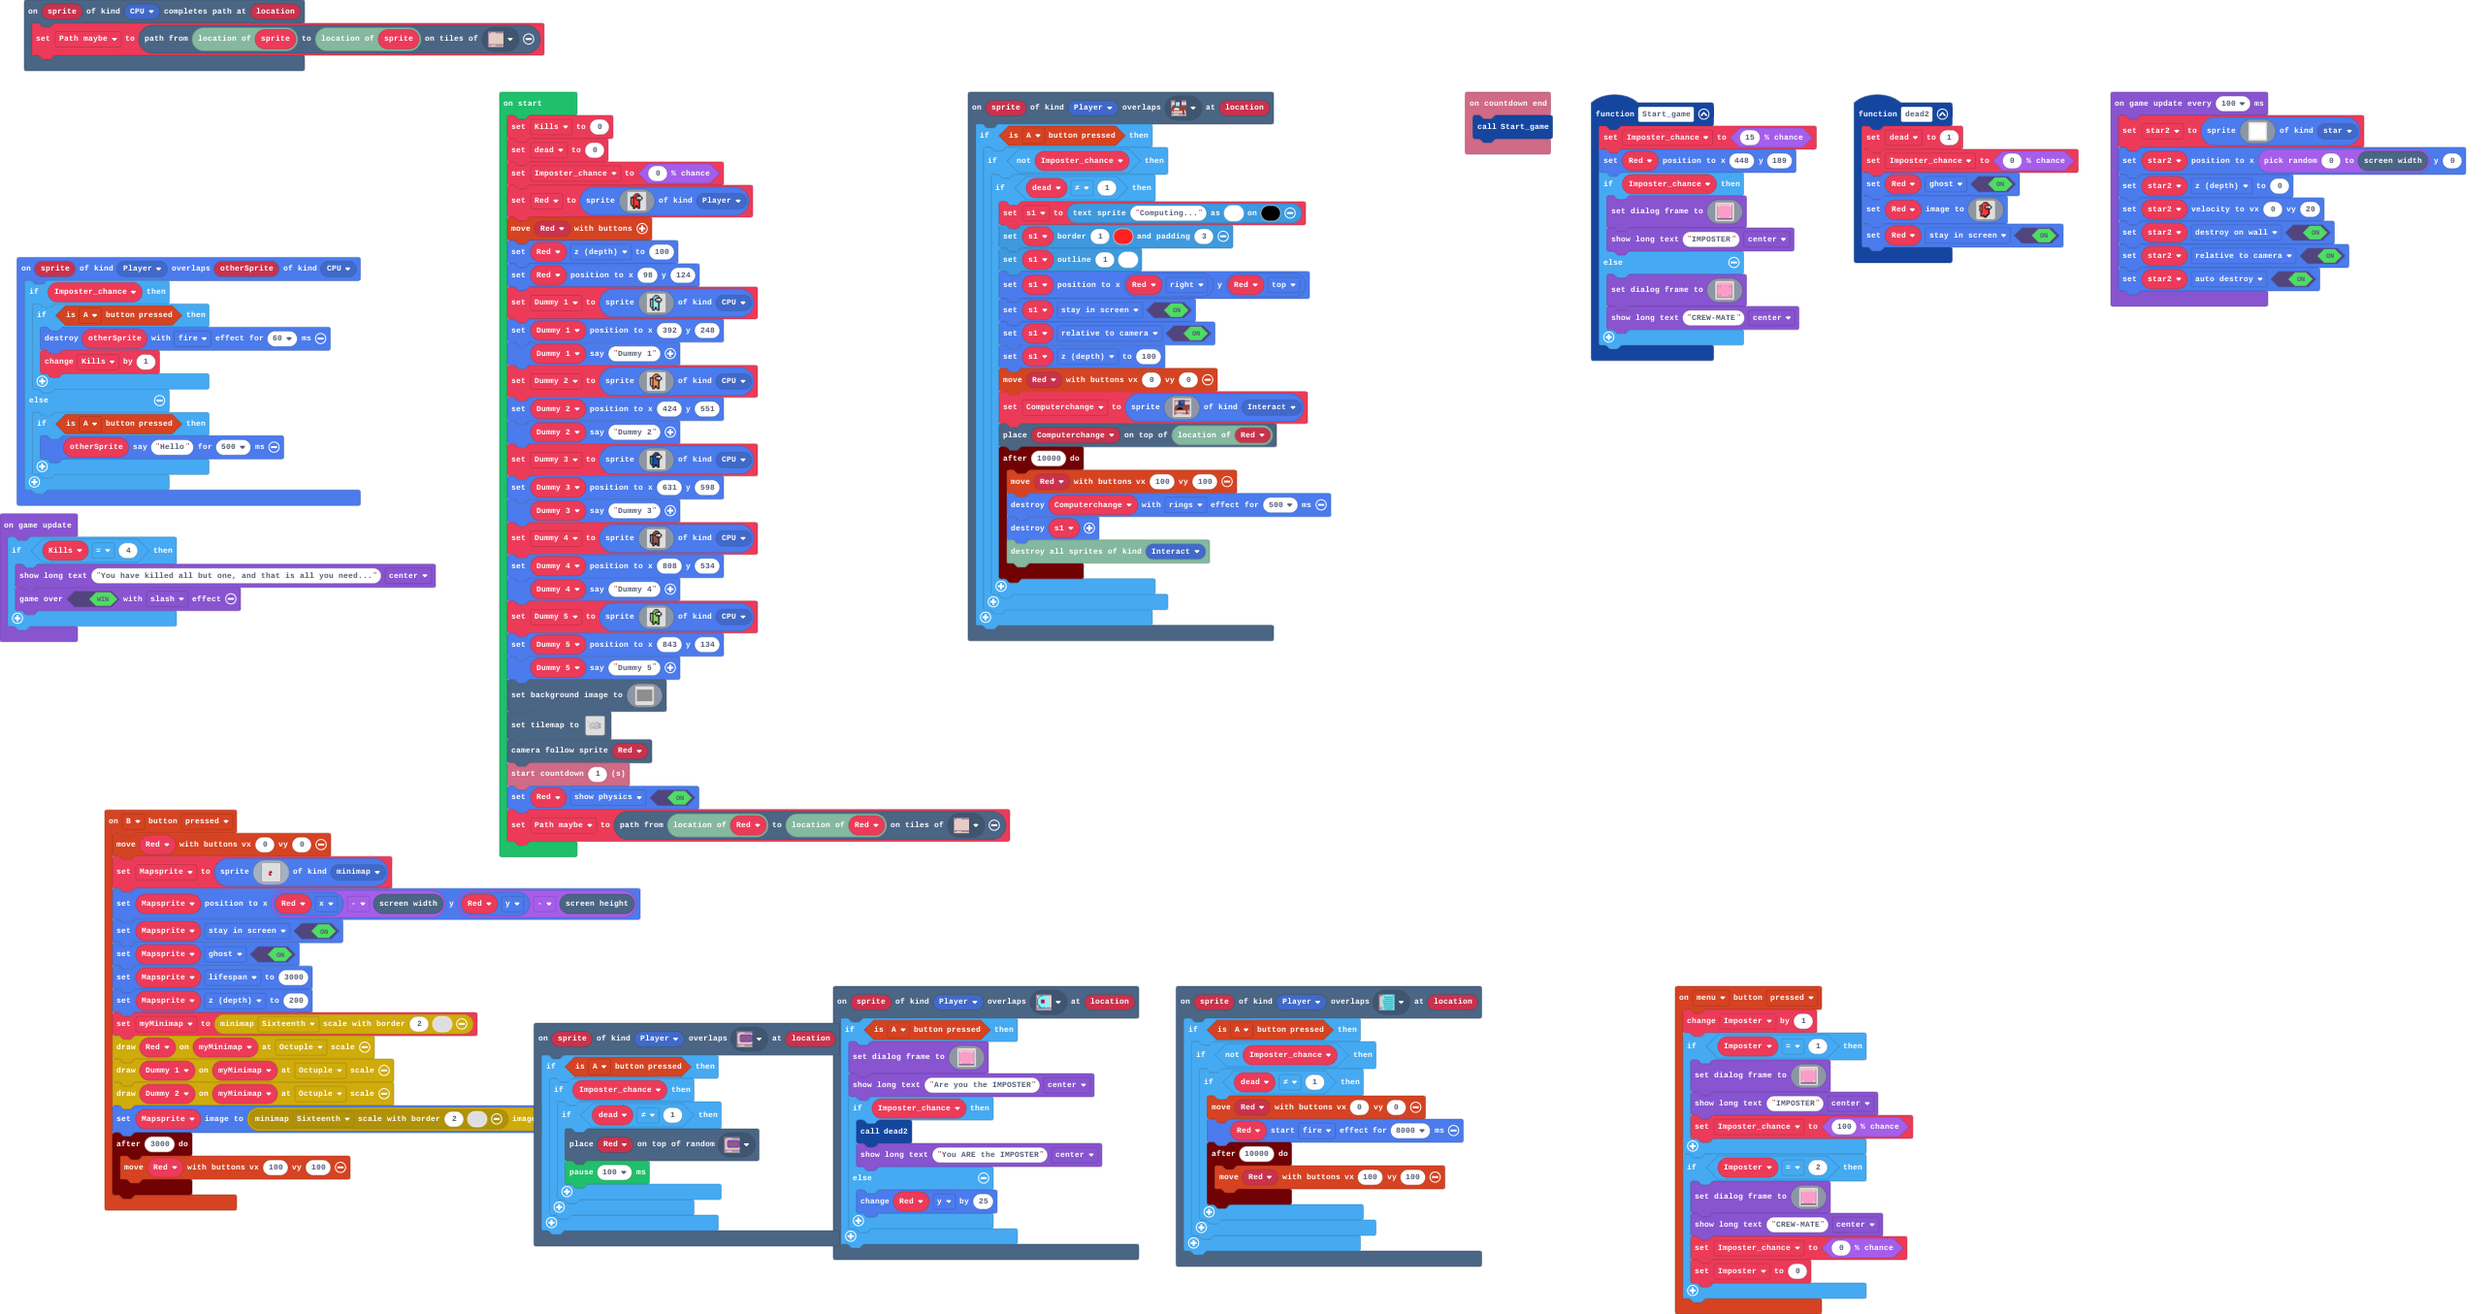
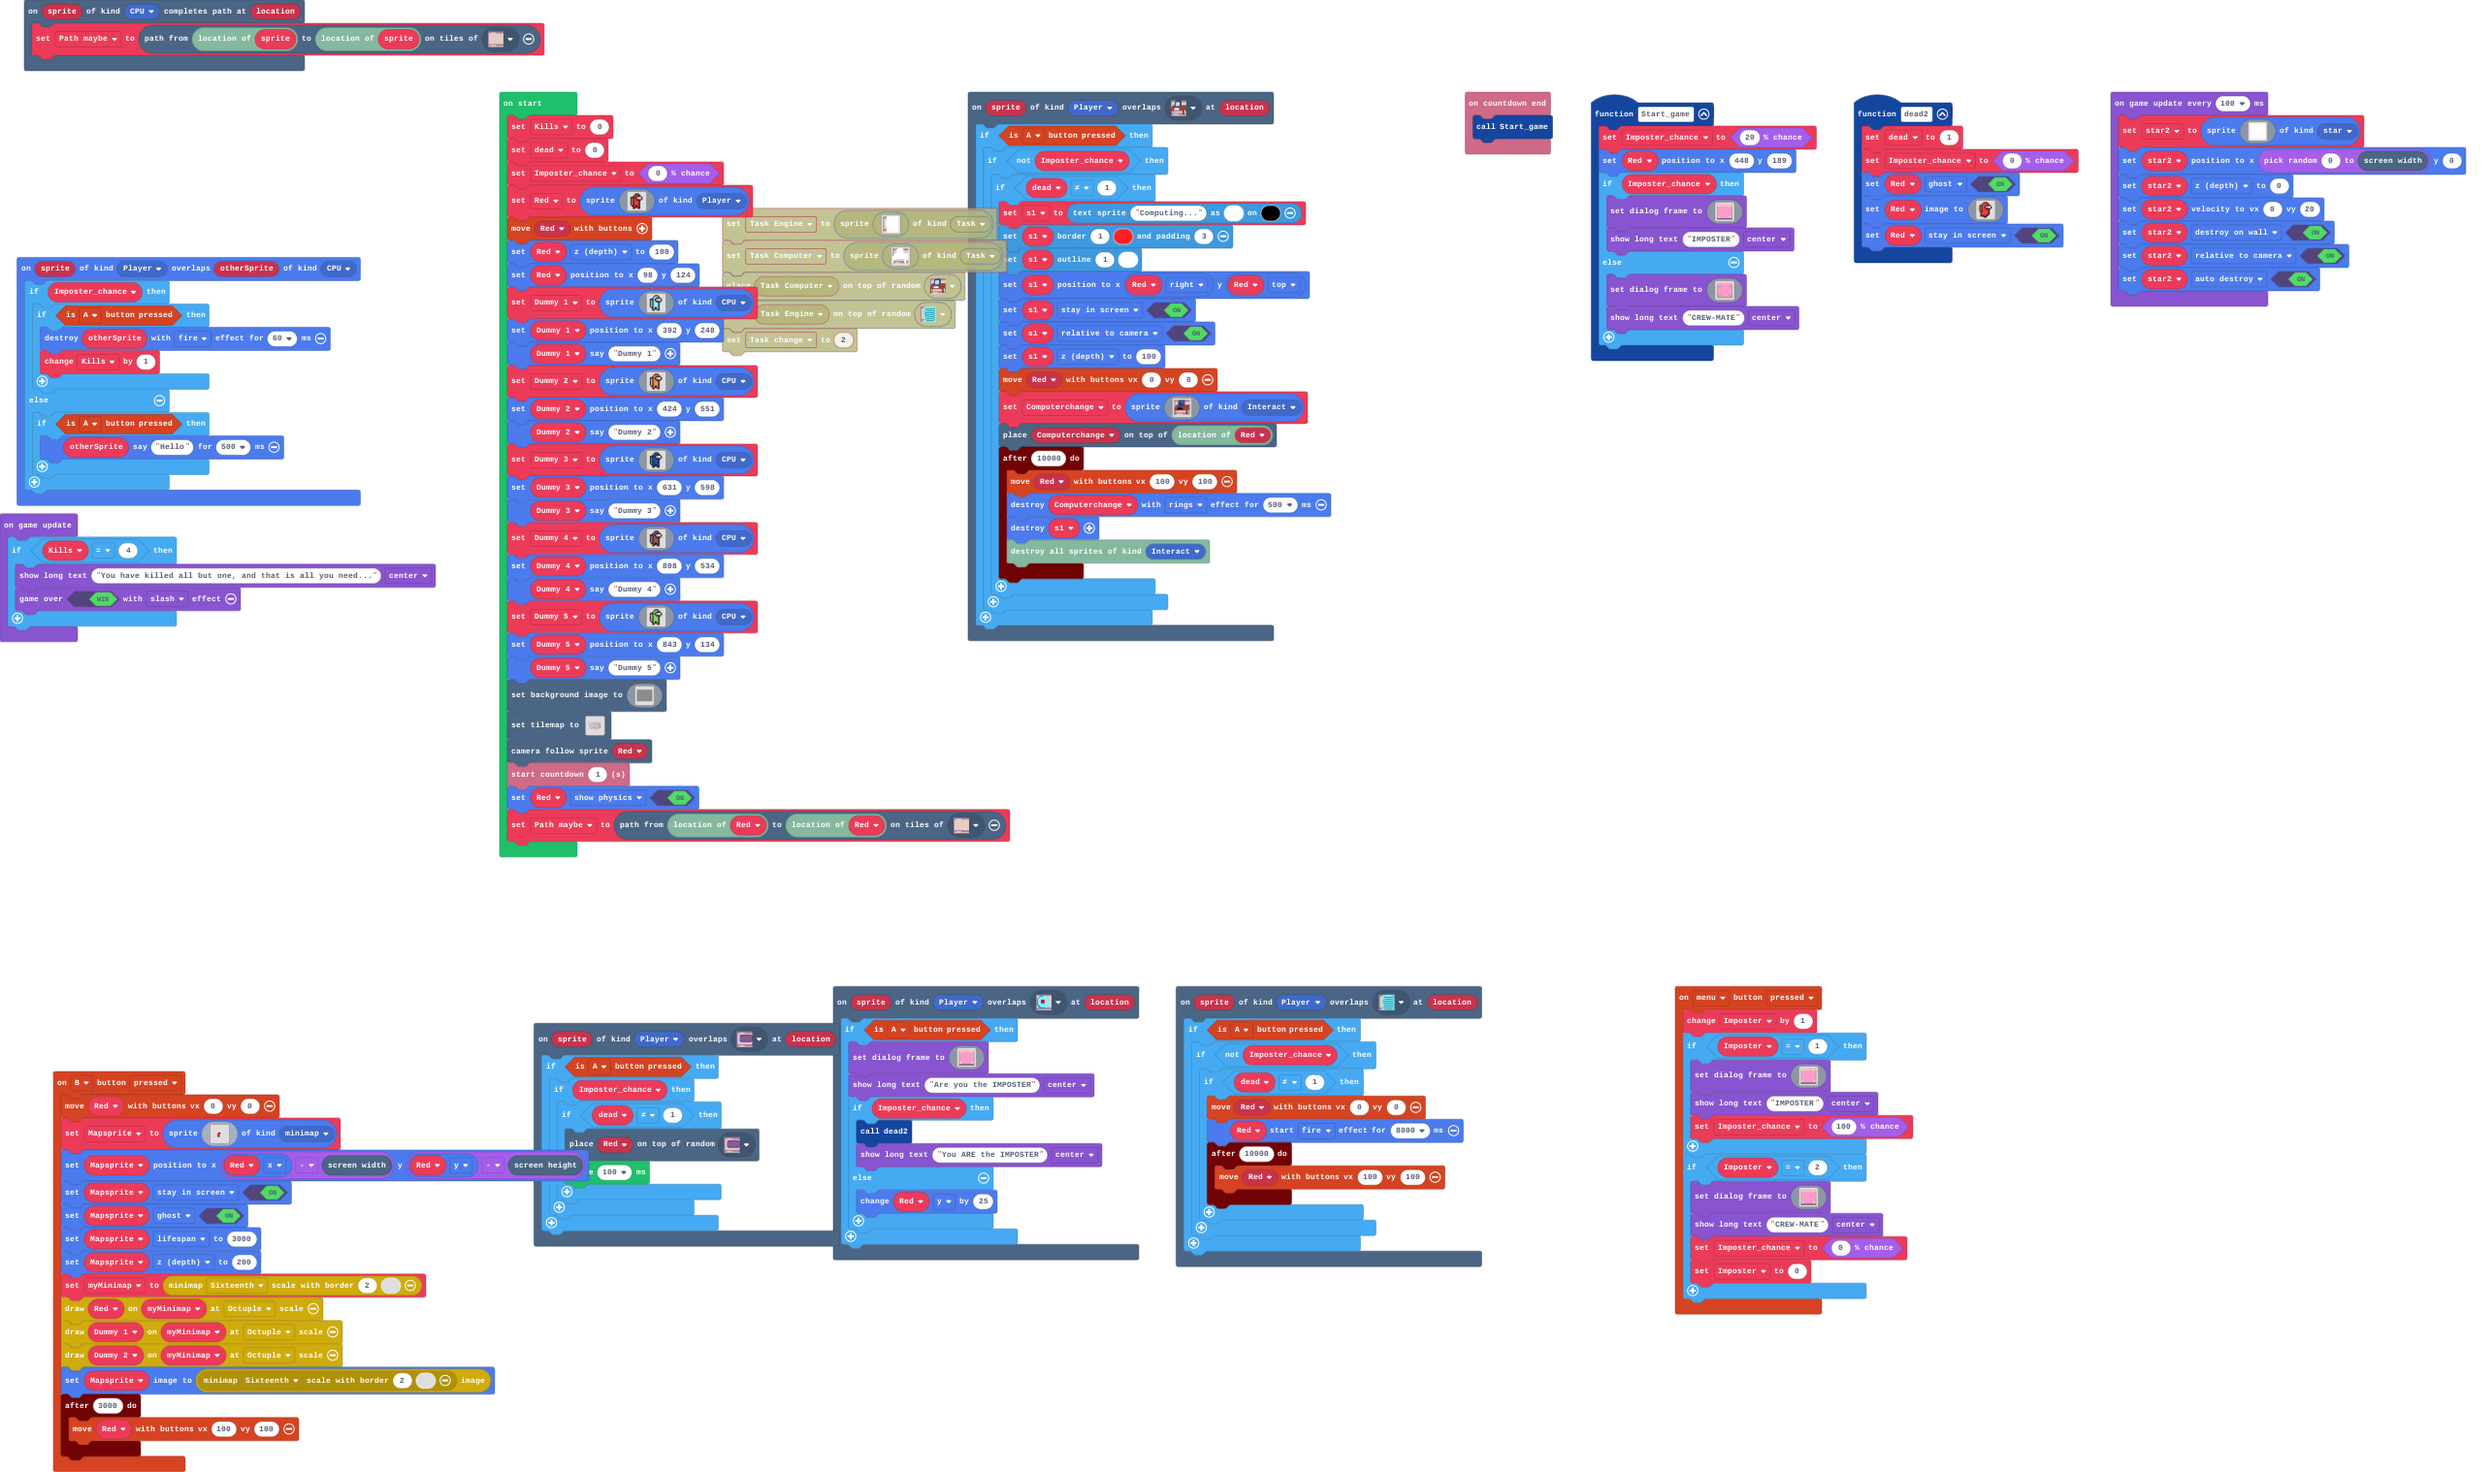
Adding tasks

Changed region(s): [[0.0, 0.0, 0.5919, 1.0], [0.5919, 0.062, 0.9969, 0.279], [0.6542, 0.6509, 0.7788, 1.0]]

diff --git a/tilemap.g.ts b/tilemap.g.ts
@@ -143,7 +143,7 @@ namespace myTiles {
 ................................................................................
 ................................................................................
 `, [myTiles.transparency16,myTiles.tile1,myTiles.tile3,myTiles.tile4,myTiles.tile5,myTiles.tile6,myTiles.tile8,myTiles.tile9,myTiles.tile2,myTiles.tile11,myTiles.tile12,myTiles.tile13,myTiles.tile14,myTiles.tile15,myTiles.tile16,myTiles.tile17,myTiles.tile18,myTiles.tile19], TileScale.Sixteen)
[2 lines of base64/hex data omitted]
 ................................................................................
 ................................................................................
 ................................................................................

diff --git a/main.ts b/main.ts
@@ -3,6 +3,7 @@ namespace SpriteKind {
     export const minimap = SpriteKind.create()
     export const Interact = SpriteKind.create()
     export const CPU = SpriteKind.create()
+    export const Task = SpriteKind.create()
 }
 scene.onOverlapTile(SpriteKind.Player, myTiles.tile2, function (sprite, location) {
     if (controller.A.isPressed()) {
@@ -222,7 +223,7 @@ controller.menu.onEvent(ControllerButtonEvent.Pressed, function () {
     }
 })
 function Start_game () {
-    Imposter_chance = Math.percentChance(15)
+    Imposter_chance = Math.percentChance(20)
     Red.setPosition(448, 189)
     if (Imposter_chance) {
         game.setDialogFrame(img`
